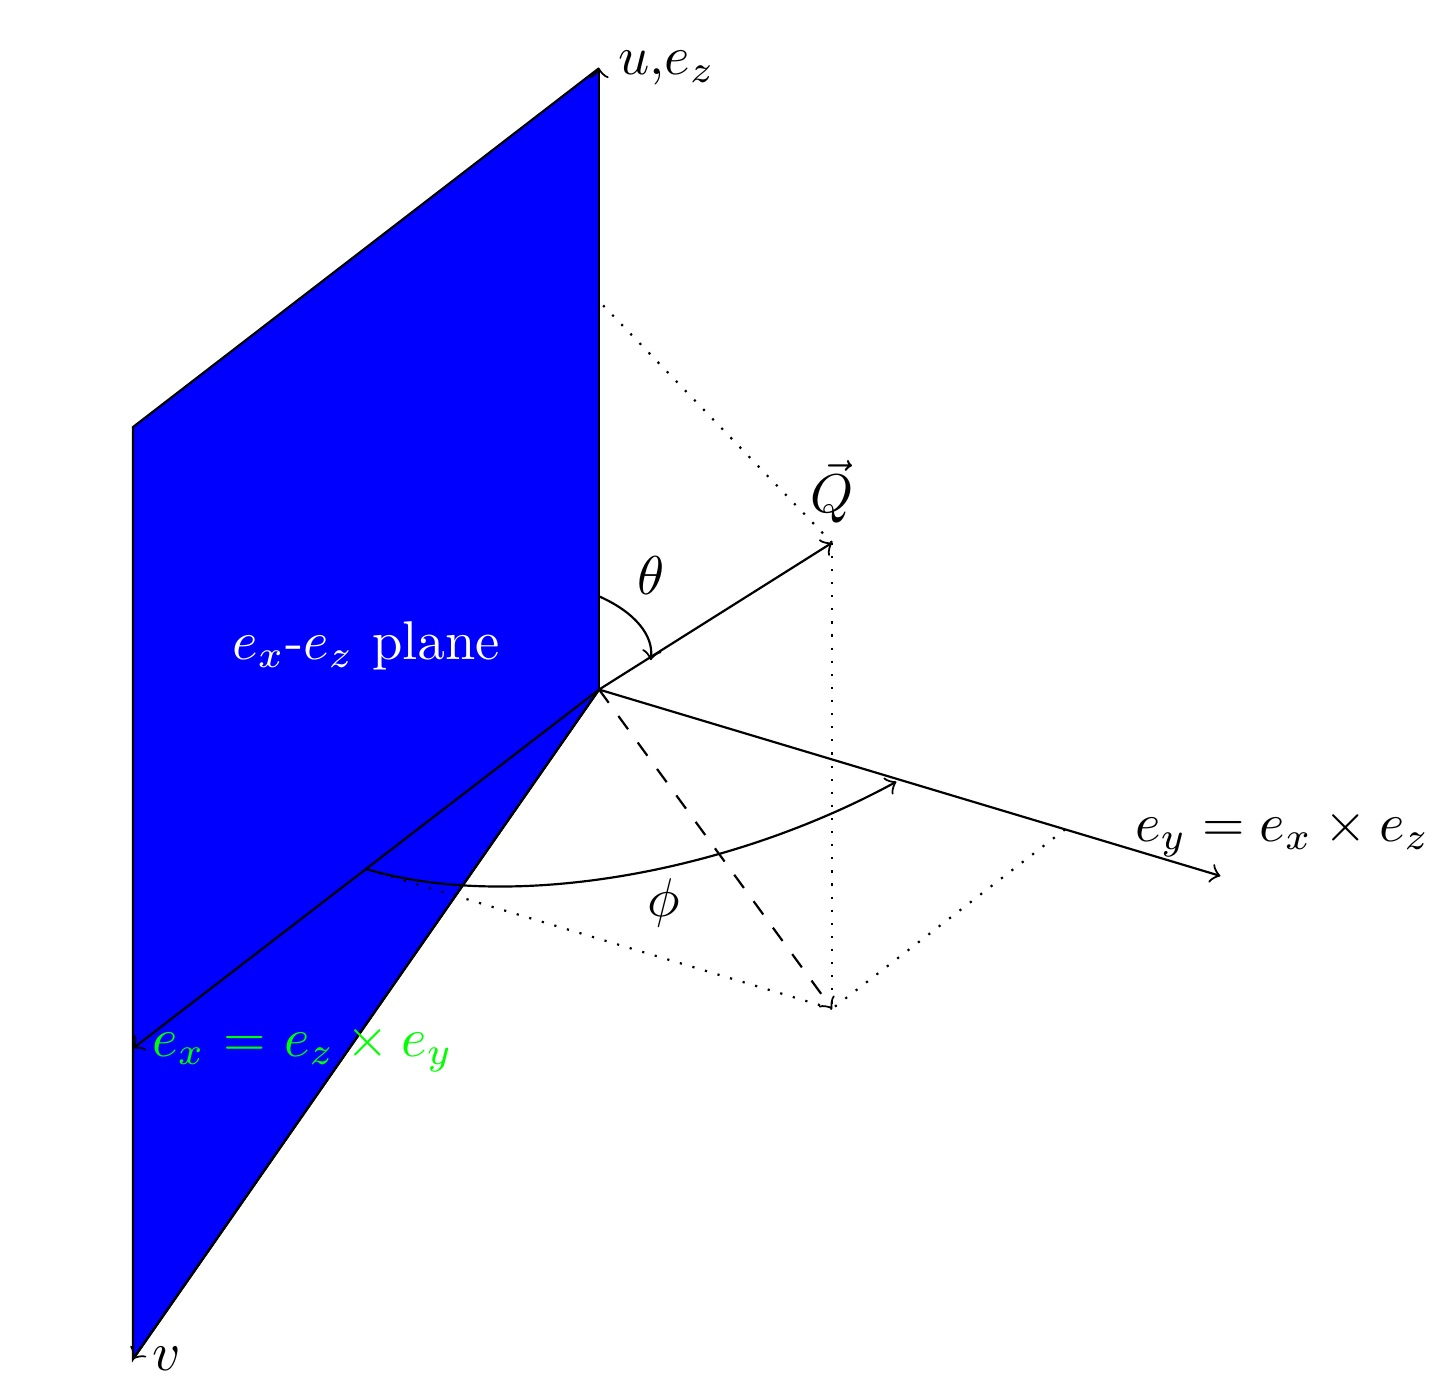
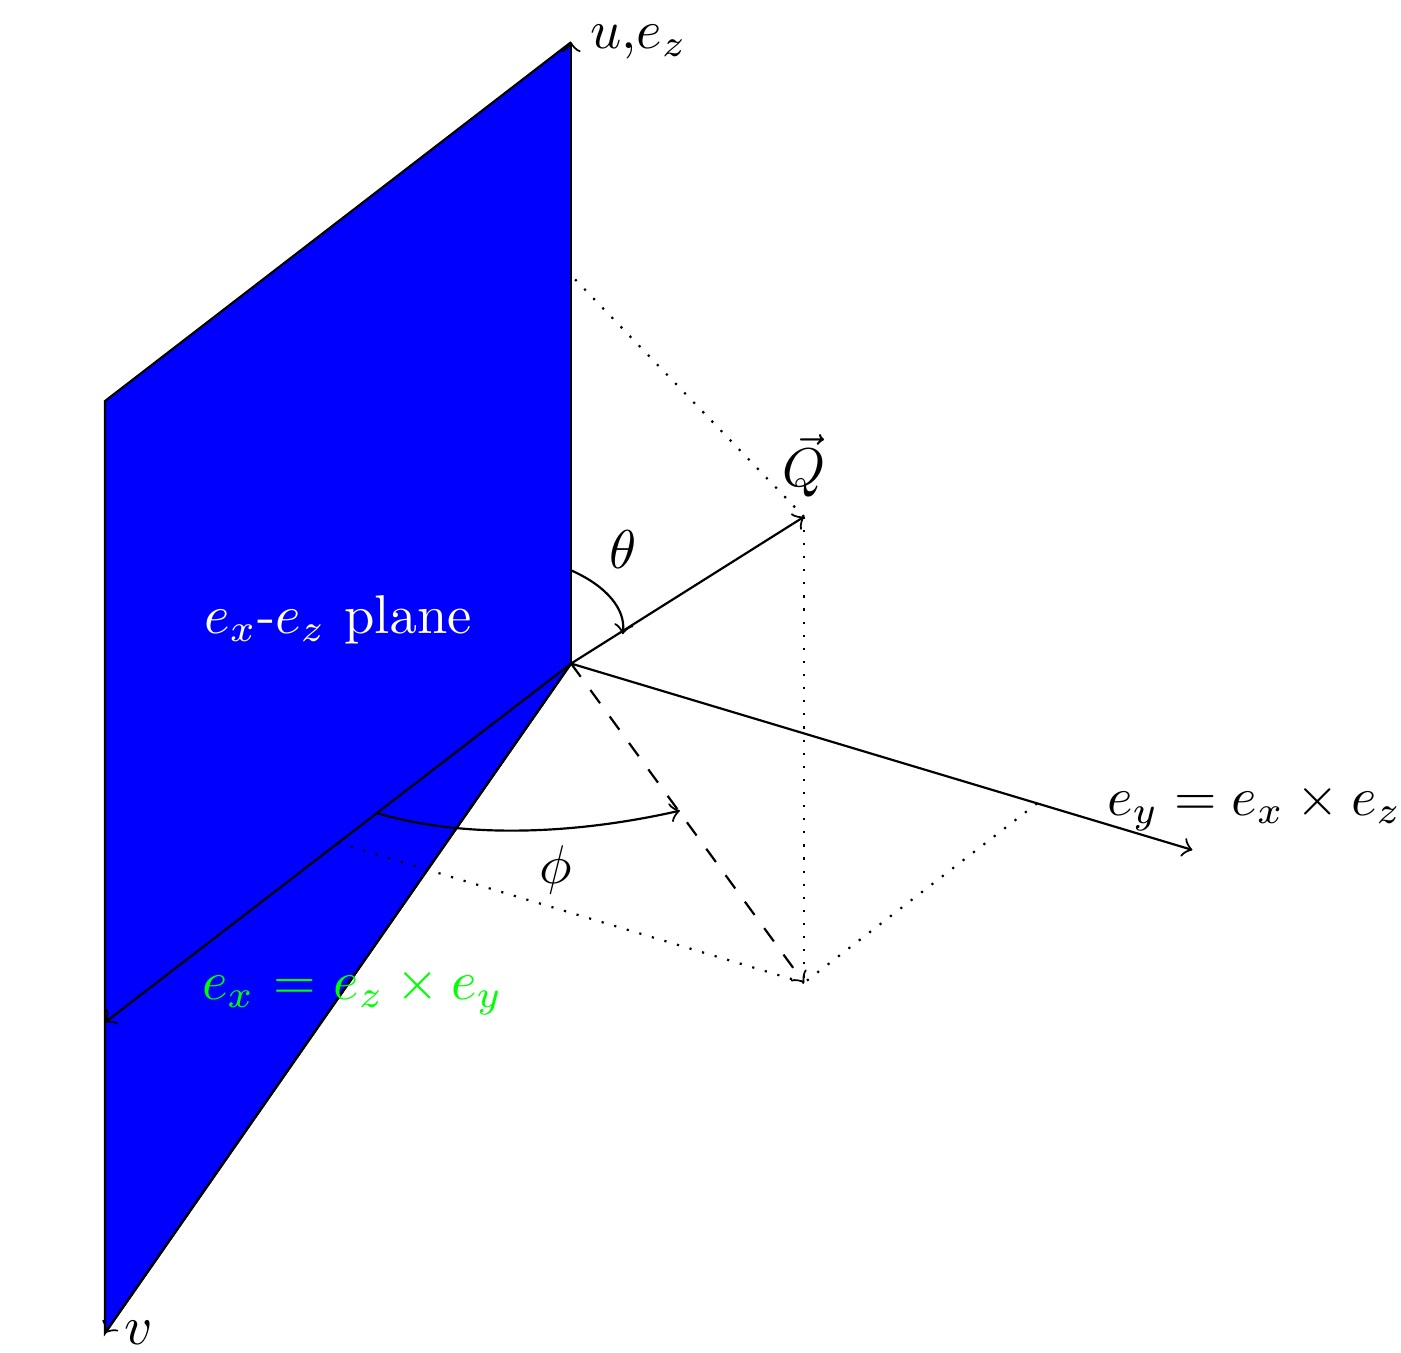
Re #1637 Bug in sphere_proj_graph.tex. Initial text for cylinder proj (copied from sphere_proj)

diff --git a/documentation/user_docs/docs/images/sphere_proj_graph.tex b/documentation/user_docs/docs/images/sphere_proj_graph.tex
@@ -10,7 +10,7 @@
   \draw [->] (0,0) -- (0,4,0) node [above,xshift=0.4cm] {$e_y = e_x \times e_z$};
   \draw [->] (0,0) -- (0,0,4) node [right] {$u$,$e_z$};
 
-  \draw [->,text=green] (0,0) -- (6,0,0) node [right] {$e_x$ = $e_z \times e_y$};
+  \draw [->,text=green] (0,0) -- (6,0,0) node [right,xshift=0.5cm,yshift=0.2cm] {$e_x$ = $e_z \times e_y$};
 
   \draw [dotted] (3,3,3) -- (0,0,2.5);
   
@@ -22,7 +22,7 @@
   \draw [dashed,->] (0,0,0) -- (3,3,0);
 
   \draw [->] (0,0,0.6) arc [start angle=170,end angle=120,x radius=1.2,y radius=0.9] node [above,yshift=0.3cm] {$\theta{}$};
-  \draw [->] (3,0,0) arc [start angle=0,end angle=75,x radius=4,y radius=2] node [below,xshift=-1.5cm,yshift=-0.5cm] {$\phi{}$};
+  \draw [->] (2.5,0,0) arc [start angle=0,end angle=44,x radius=4,y radius=2] node [below,xshift=-0.8cm,yshift=-0.1cm] {$\phi$};
 
 \end{tikzpicture}
 

diff --git a/documentation/user_docs/docs/manual/Cutting_data_of_interest_from_SQW_files_and_objects.rst b/documentation/user_docs/docs/manual/Cutting_data_of_interest_from_SQW_files_and_objects.rst
@@ -682,7 +682,7 @@ where:
 
 - ``u`` The direction of the :math:`z`-axis of the spherical coordinate system. 
     The vector :math:`u` is the reciprocal space vector defining the direction of the :math:`z`-axis 
-    of the target spherical coordinate system.
+    of the target spherical coordinate system.  See :ref:`fig_sphere_coodinates` for details.
 
 - ``v``  The direction of the :math:`x`-axis of the spherical coordinate system. 
     The vector :math:`v` is the reciprocal space vector defining the direction of the :math:`x`-axis 
@@ -985,7 +985,202 @@ the spin-wave centre:
 Cylindrical Projections
 ^^^^^^^^^^^^^^^^^^^^^^^
 
-TBD
+In order to construct a cylindrical projection (i.e. a projection in :math:`\Q_{tr}`,
+:math:`\Q_{||}, :math:`\phi` (azimuthal angle) and :math:`E`) we
+create a projection in an analogous way to the ``line_proj``, but using the
+``cylinder_proj`` function:
+
+The complete signature for ``cylinder_proj`` is similar to ``sphere_proj``:
+
+.. code-block:: matlab
+
+   proj = cylinder_proj([u][, v][, type][, alatt][, angdeg][, offset][, label][, title][, lab1][, lab2][, lab3][, lab4])
+
+where:
+
+- ``u`` The direction of the :math:`z`-axis of the cylindrical coordinate system. 
+    The vector :math:`u` is the reciprocal space vector defining the direction of the :math:`z`-axis 
+    of the target cylindrical coordinate system. See :ref:`fig_cylider_coodinates` for details.
+
+- ``v``  The direction of the :math:`x`-axis of the cylindrical coordinate system. 
+    The vector :math:`v` is the reciprocal space vector defining the direction of the :math:`x`-axis 
+    of the target cylindrical coordinate system. The reciprocal space vectors :math:`u-v` are not
+    always orthogonal so the actual direction of cylindrical coordinate system :math:`x`-axis lies
+    in the plain defined by :math:`u-v` vectors and is orthogonal to :math:`z`-axis. See 
+    :ref:`fig_cylider_coodinates` for details.
+
+.. note::
+
+   The :math:`w` direction is not explicitly defined as part of the
+   ``sphere_proj`` as it is always constructed to be perpendicular to the
+   :math:`u`-:math:`v` plane.
+
+.. note::
+
+   By default a ``sphere_proj`` will define its principal axes
+   :math:`u` and :math:`v` along the :math:`hkl` directions
+   :math:`[1,0,0]` (:math:`u`) and :math:`[0,1,0]` (:math:`v`)
+   respectively.
+
+- ``type`` Spherical axes normalization.
+
+  Three character string denoting the the projection normalization of each
+  dimension, one character for each directions, e.g. ``'add'``, ``'rrr'``, ``'pdr'``.
+
+  At the moment there is only one possible option for the first (length) component of ``type``:
+
+  1. ``'a'``  Inverse angstroms.
+
+  ..
+     2. ``'r'``
+
+        Reciprocal lattice units (r.l.u.) which normalises so that the maximum of
+        :math:`|h|`, :math:`|k|` and :math:`|l|` is unity.
+
+     3. ``'p'``
+
+        Preserve the values of ``u`` and ``v``
+
+  There are 2 possible options for the second and third (angular) components of
+  type:
+
+  1. ``'d'``     Degrees
+
+  2. ``'r'``     Radians
+
+  ..
+    For example, if we wanted the **Q**-component to be in r.l.u. and
+    the angles in degrees we would have ``type = 'rdd'``.
+
+- ``alatt``   3-vector of lattice parameters.
+
+- ``angdeg``  3-vector of lattice angles in degrees.
+
+.. note::
+
+   In general, you should not need to define ``alatt`` or ``angdeg``;
+   by default they will be taken from the ``sqw`` object during a
+   ``cut``. However, there are cases where a projection object may
+   need to be reused elsewhere.
+
+- ``offset``
+
+  3-vector in :math:`(h,k,l)` or 4-vector in :math:`(h,k,l,e)` defining the
+  origin of the projection coordinate system.
+
+
+- ``label``, etc.
+
+  See `plotargs`_ above
+
+.. note::
+
+   If you do not provide any arguments to ``sphere_proj``, by default
+   it will build a ``sphere_proj`` with ``u=[1,0,0]``, ``v=[0,1,0]``,
+   ``type='add'`` and ``offset=[0,0,0,0]``.
+
+   ..
+      Looks weird, needs clarification
+
+   .. code-block:: matlab
+
+       sp_pr = sphere_proj()
+
+       sp_pr =
+          sphere_proj with properties:
+                 u: [1 0 0]
+                 v: [0 1 0]
+              type: 'add'
+             alatt: []
+            angdeg: []
+            offset: [0 0 0 0]
+             label: {'|Q|'  '\theta'  '\phi'  'En'}
+             title: ''
+
+.. note::
+
+   Like ``line_proj``, ``sphere_proj`` can be `defined using
+   positional or keyword arguments <#poskwarg>`_. However the same
+   recommendation applies that positional should only be used to
+   define ``u`` and ``v``.
+
+``sphere_proj`` defines a spherical coordinate system, where:
+
+* |Q| -- The radius from the ``sphere_proj`` origin (``offset``) in :math:`hkl`
+
+* :math:`\theta`  -- The angle measured from :math:`e_z` to the vector (:math:`\vec{q}`),
+  i.e. :math:`0^{\circ}` is parallel to :math:`e_z` and :math:`90^{\circ}` is
+  perpendicular to :math:`e_z`.   Mathematically this is defined as:
+
+.. math::
+
+   \cos\left(\theta{}\right) = \frac{\vec{q}\cdot\vec{e_z}}{\left|q\right|\cdot\left|e_z\right|}
+
+* :math:`\phi` --  is the angle measured between the :math:`e_x`-:math:`e_z` plane to the vector
+  (:math:`\vec{q}`), i.e. :math:`0^{\circ}` lies in the :math:`e_x`-:math:`e_z`
+  plane and :math:`90^{\circ}` is normal to :math:`e_x`-:math:`e_z` plane
+  (i.e. parallel to :math:`e_y`). Mathematically this is defined as:
+
+.. math::
+
+   \sin\left(\phi{}\right) = \frac{\vec{q}\cdot\vec{e_y}}{\left|q\right|\cdot\left|e_y\right|}
+
+* :math:`E`   is the energy transfer as defined in ``line_proj``
+
+.. note::
+
+   :math:`\theta`  lies in the range between :math:`0^{\circ}` and :math:`180^{\circ}` and :math:`\phi` 
+   is in the range between :math:`-180^{\circ}` and :math:`180^{\circ}`. The ``sphere_proj`` settings
+   allow to change these values to radians so it :math:`0 \leq \theta \leq \pi` and :math:`-\pi \leq \phi \leq \pi`.
+
+
+
+..  _fig_cylider_coodinates`:
+
+.. figure:: ../images/sphere_proj_graph.jpg
+   :align: center
+   :width: 400px
+   :alt: spherical coordinate system.
+
+   Cylindrical coordinate system used by ``cylinder_proj``
+
+Horace uses Matlab methods ``cart2sph`` and ``sph2cart`` to convert array of vectors expressed in Cartesian coordinate
+system to spherical coordinate system and back. The formulas, used by these methods are provided `on Matlab help pages <https://uk.mathworks.com/help/matlab/ref/cart2sph.html>`_. The difference between formulas provided there and used by Horace is the elevation angle, which for Horace is:
+
+    :math:`\theta = 90-elevation`
+
+Where :math:`elevation` is the ``elevation`` angle used in Matlab ``cart2sph/sph2cart`` functions. Matlab ``azimuth`` angle form 
+`the help pages <https://uk.mathworks.com/help/matlab/ref/cart2sph.html>`_  is equivalent to Horace :math:`\phi` angle.
+
+.. note::
+
+   A spherical projection currently does not have the ability to be
+   rescaled in |Q| relative to the magnitude of :math:`u` or
+   :math:`v` vectors.
+
+When it comes to cutting and plotting, we can use a ``sphere_proj`` in
+exactly the same way as we would a ``line_proj``, but with one key
+difference. The binning arguments of ``cut`` no longer refer to
+:math:`h,k,l,E`, but to |Q|, :math:`\theta`, :math:`\phi`, :math:`E`.
+
+.. code-block:: matlab
+
+   sp_cut = cut(w, sp_proj, Q, theta, phi, e, ...);
+
+.. warning::
+
+   The form of the arguments to ``cut`` is still the same (see: `Binning
+   arguments`_). However:
+
+   - |Q| runs from :math:`[0, \infty)` -- attempting to use a |Q| with a minimum
+     bound less than :math:`0` will fail.
+   - :math:`\theta` runs between :math:`[0, 180]` -- requesting binning outsize these ranges will fail.
+   - :math:`\phi` runs between :math:`[-180, 180]` -- requesting binning outsize these ranges will fail.
+
+
+``sphere_proj`` 2D and 1D cuts examples:
+________________________________________
+
 
 
 Further Examples
